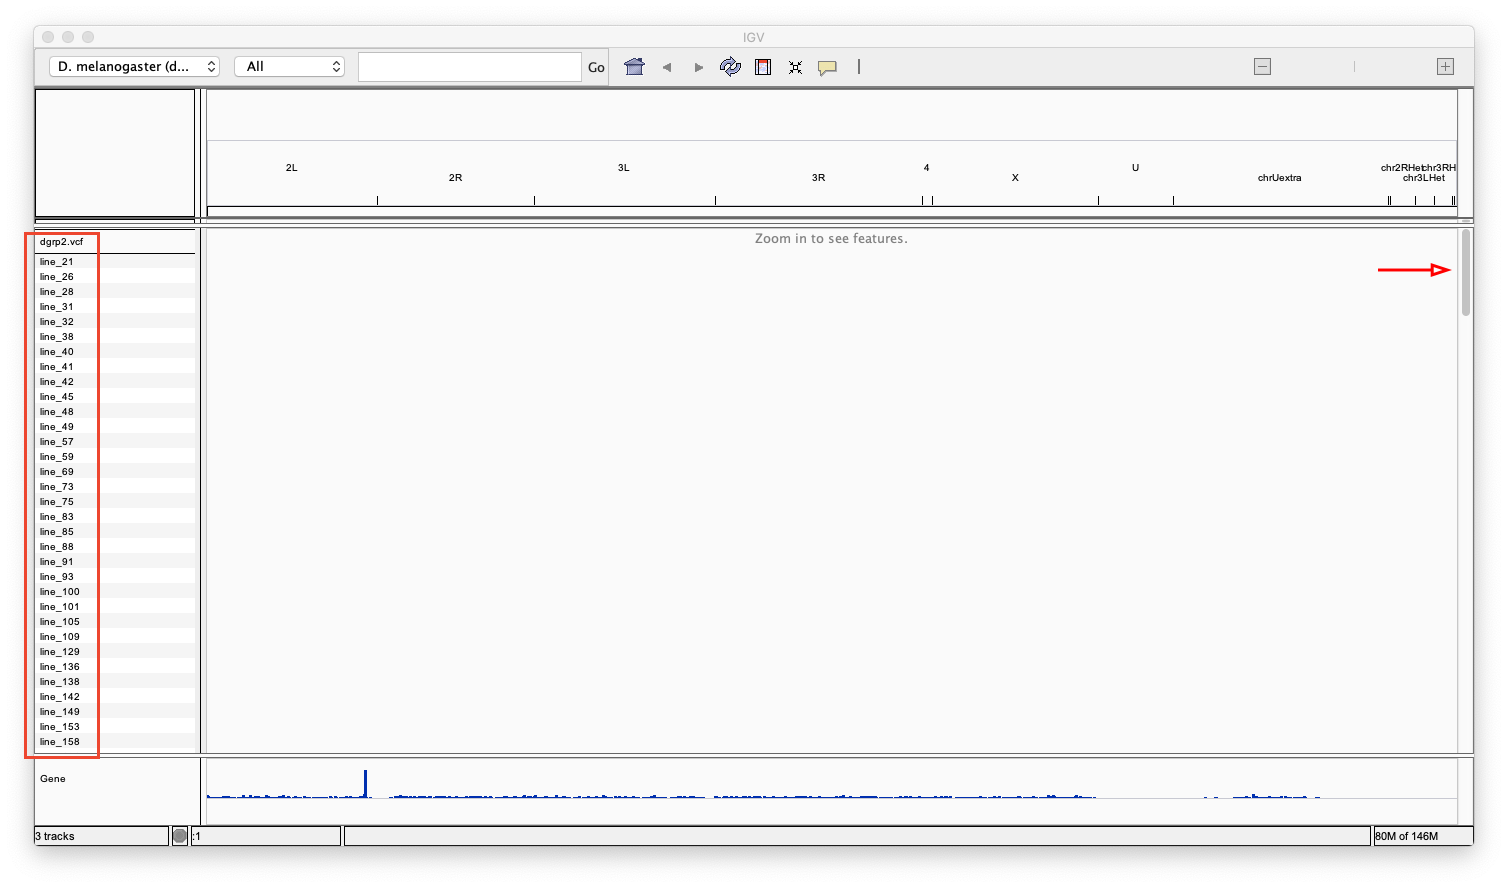
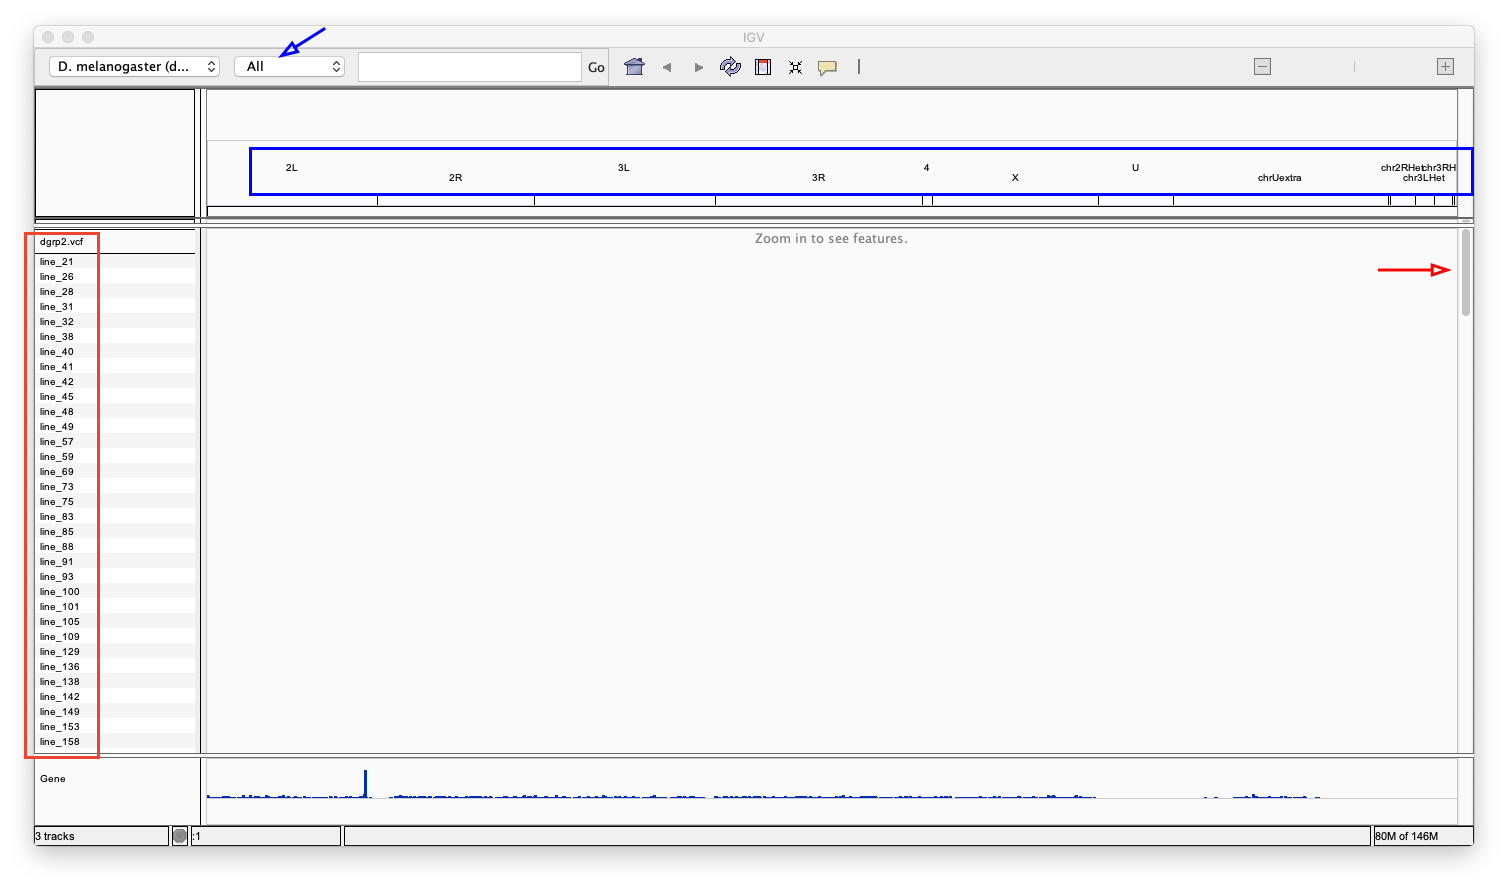
change made to step 6

Changed region(s): [[0.1558, 0.152, 0.9662, 0.1824], [0.187, 0.2128, 0.9662, 0.2432], [0.187, 0.0304, 0.2182, 0.0608]]

diff --git a/.ipynb_checkpoints/vcf_tutorial-checkpoint.md b/.ipynb_checkpoints/vcf_tutorial-checkpoint.md
@@ -73,7 +73,7 @@ Once IGV is downloaded, you can move it to wherever you like (e.g. if you use a 
 
 <img src="vcf_tutorial_images/4_IGV_index_pop_up.png" alt="drawing" width="250"/>
 
-6. Once the index file is created, you will see each of the 205 DGRP lines on the far left side of the window (red box in the image below). You can scroll through these using the scroll bar on the far right side of the window (red arrow in the image below). To explore genetic variation present in these lines, click on 
+6. Once the index file is created, you will see each of the 205 DGRP lines on the far left side of the window (red box in the image below). You can scroll through these using the scroll bar on the far right side of the window (red arrow in the image below). To explore genetic variation on a given chromosome , click on any of the chromosomes in the top panel (blue box in the image below), or use the drop-down menu (blue arrow in the image below).
 
 ![image of dgrp2 download page](vcf_tutorial_images/5_IGV_dgrp2_loaded_in_edited.png)
 

diff --git a/vcf_tutorial.md b/vcf_tutorial.md
@@ -73,7 +73,7 @@ Once IGV is downloaded, you can move it to wherever you like (e.g. if you use a 
 
 <img src="vcf_tutorial_images/4_IGV_index_pop_up.png" alt="drawing" width="250"/>
 
-6. Once the index file is created, you will see each of the 205 DGRP lines on the far left side of the window (red box in the image below). You can scroll through these using the scroll bar on the far right side of the window (red arrow in the image below). To explore genetic variation present in these lines, click on 
+6. Once the index file is created, you will see each of the 205 DGRP lines on the far left side of the window (red box in the image below). You can scroll through these using the scroll bar on the far right side of the window (red arrow in the image below). To explore genetic variation on a given chromosome , click on any of the chromosomes in the top panel (blue box in the image below), or use the drop-down menu (blue arrow in the image below).
 
 ![image of dgrp2 download page](vcf_tutorial_images/5_IGV_dgrp2_loaded_in_edited.png)
 
